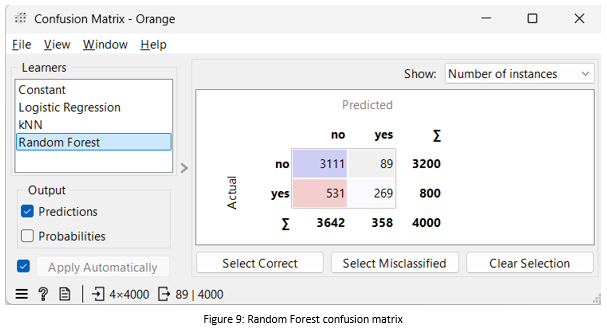
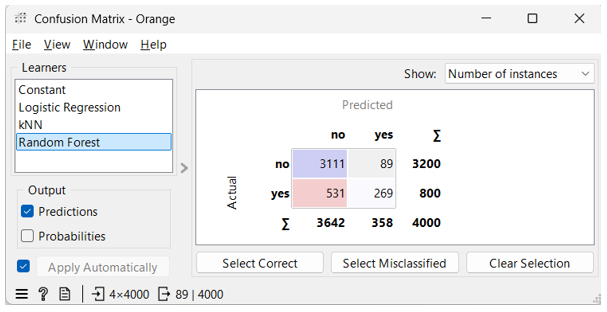
minr updates for class models

diff --git a/projects/classification-models.html b/projects/classification-models.html
@@ -91,7 +91,7 @@
               This was my first proper introduction to machine learning, and it came with a twist I didn't expect: most of it was done without writing a single line of code. The tool we used was Orange, a visual node-based data analysis platform that makes building and comparing ML models surprisingly intuitive.
             </p>
             <p>
-              Going in, I expected this to be the most technically intimidating thing I had done so far on the MSc. Coming out, I was genuinely surprised by how accessible it made the whole process and honestly how much fun I had with it. If you've ever been put off by machine learning because of the code side of things, Orange is worth looking at.
+              Going in, I expected this to be pretty intimidating as I had never dealt with machine learning before. Coming out, I was genuinely surprised by how accessible it made the whole process and honestly how much fun I had with it. If you've ever been put off by machine learning because of the code side of things, Orange is worth looking at.
             </p>
             <p>
               The brief was straightforward: given a dataset from a bank's previous marketing campaign, build a model that could predict which customers were most likely to subscribe to a new financial product, while minimising wasted calls to people who wouldn't convert.
